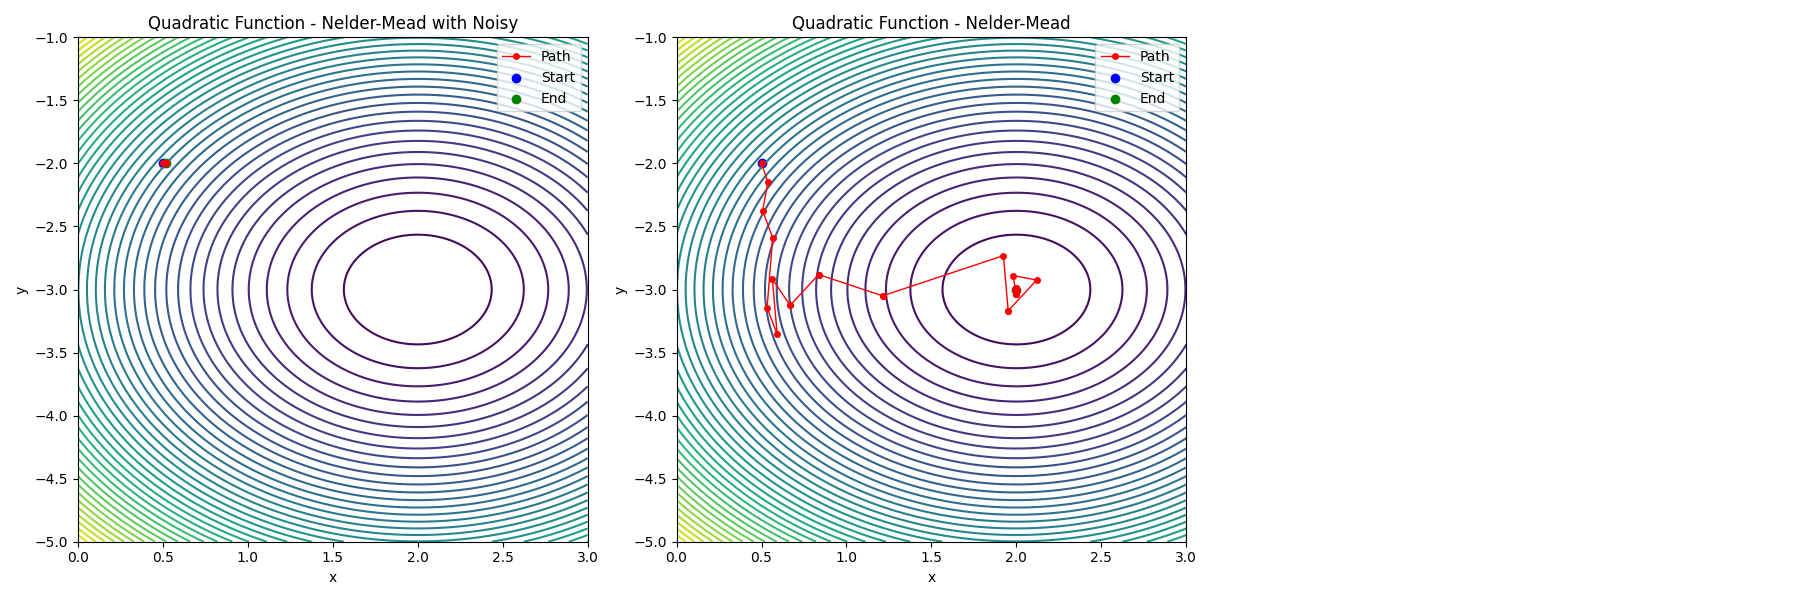
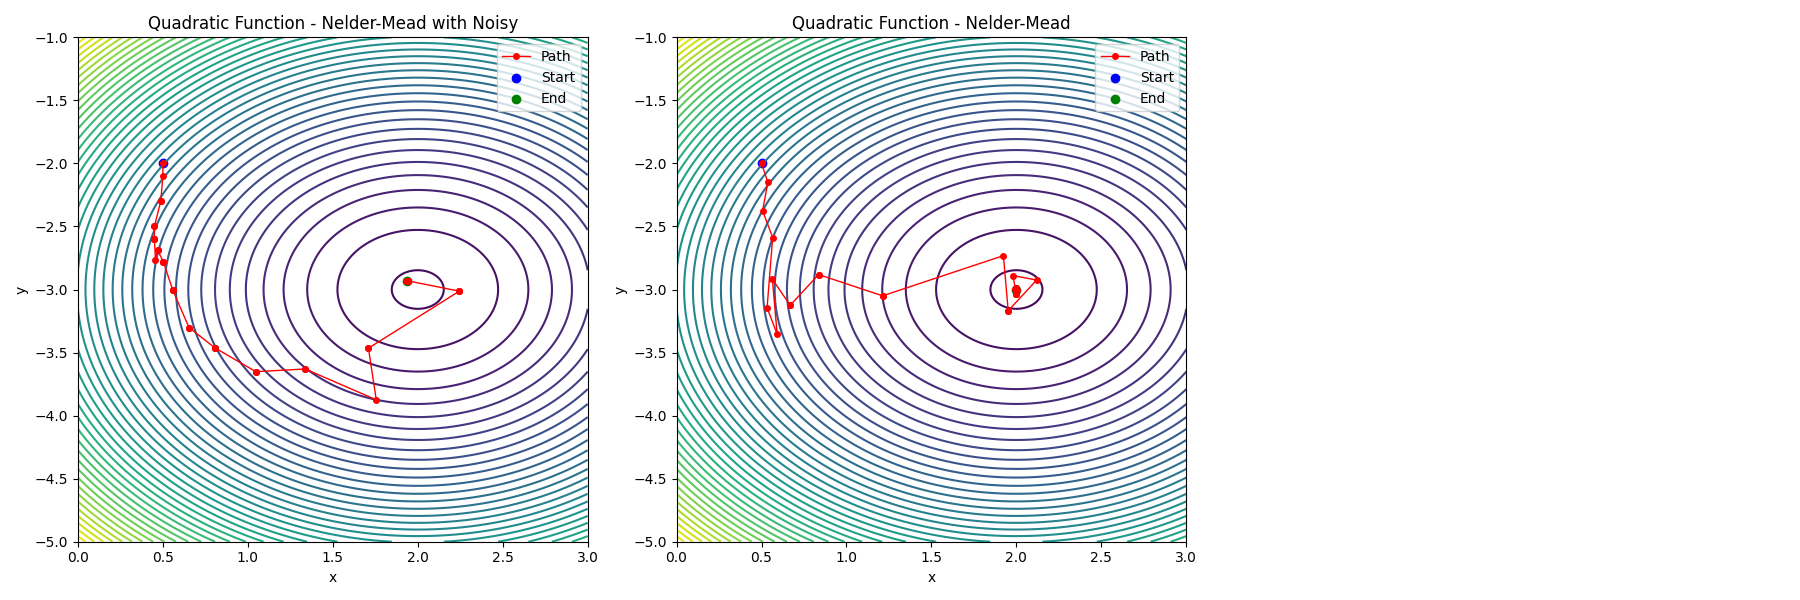
fix

Changed region(s): [[0.0311, 0.06, 0.3422, 0.93], [0.3733, 0.06, 0.6844, 0.93]]

diff --git a/base_task/renewed_and_visualized.py b/base_task/renewed_and_visualized.py
@@ -233,32 +233,21 @@ plot_contour_and_trajectory(
 # Пункт 3
 
 def noisy_quadratic(point):
-    noise = random.normalvariate(0, 5)
-    return (point[0] - 2) ** 2 + (point[1] + 3) ** 2 + noise
+    noise = random.normalvariate(0, 0.05)
+    ans = (point[0] - 2) ** 2 + (point[1] + 3) ** 2 + noise
+    return ans
 
-def noisy_rosenbrock(point):
-    noise = random.normalvariate(0, 5)
-    return (1 - point[0]) ** 2 + 100 * (point[1] - point[0] ** 2) ** 2 + noise
 
 start_point_quadratic = [0.5, -2]
-start_point_rosenbrock = [-1, 2]
 
+final_point_nm, trajectory_nm = nelder_mead_with_trajectory(quadratic, start_point_quadratic)
+final_point_nm, len(trajectory_nm)
 final_point_nm, trajectory_nm_noisy = nelder_mead_with_trajectory(noisy_quadratic, start_point_quadratic)
 final_point_nm, len(trajectory_nm_noisy)
 
 plot_contour_and_trajectory(
     noisy_quadratic, None, start_point_quadratic, [0, 3], [-5, -1],
     "Quadratic Function",
-    {"Nelder-Mead with Noisy": trajectory_nm_noisy, "Nelder-Mead": trajectory_quadratic_nm},
+    {"Nelder-Mead with Noisy": trajectory_nm_noisy, "Nelder-Mead": trajectory_nm},
     "noisy_quad_traectories.png"
-)
-
-final_point_nm, trajectory_nm = nelder_mead_with_trajectory(noisy_rosenbrock, start_point_rosenbrock)
-final_point_nm, len(trajectory_nm)
-
-plot_contour_and_trajectory(
-    noisy_rosenbrock, None, start_point_rosenbrock, [-2, 2], [-1, 3],
-    "Rosenbrock Function",
-    {"Nelder-Mead with Noisy": trajectory_nm, "Nelder-Mead": trajectory_rosen_nm},
-    "noisy_rosenbrock_traectories.png"
 )
